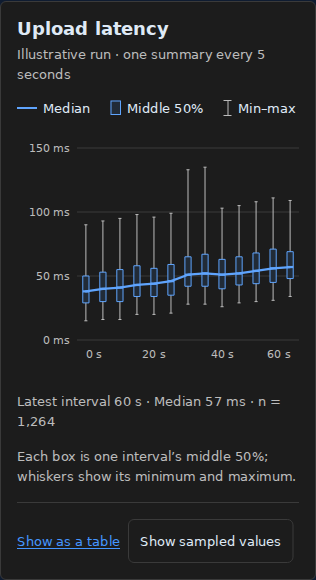
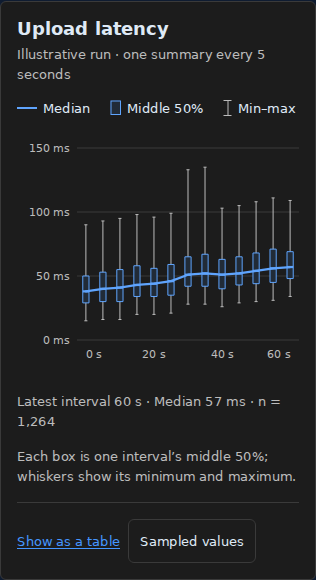
fix(insights): address native interaction and chart review findings

Changed region(s): [[0.4557, 0.9, 0.8829, 0.9621]]

diff --git a/test/patterns/insights/analytic-charts.test.ts b/test/patterns/insights/analytic-charts.test.ts
@@ -130,3 +130,25 @@ it("refreshes inspection from the current snapshot and clears removed identities
  const range=new RangeChart();range.rows=[{id:"a",label:"Before",low:12,high:58}];document.body.append(range);range.shadowRoot!.querySelector<HTMLButtonElement>('[part="range"]')!.focus();outside.focus();range.rows=[{id:"a",label:"After",low:10,high:20}];expect(range.shadowRoot!.querySelector('[part="inspection"]')!.textContent).toContain('After: between 10 and 20');range.rows=[];range.rows=[{id:"b",label:"New",low:1,high:2}];expect(range.shadowRoot!.querySelector('[part="inspection"]')!.textContent).not.toContain('Before');
  const line=new LineChart();line.series=series;document.body.append(line);const view=line.shadowRoot!.querySelector('[part="series-host"]')!.shadowRoot!;view.querySelector<HTMLButtonElement>('[part="legend-item"]')!.focus();outside.focus();line.series=[{id:"flat",label:"Updated",points:[{x:1,y:42}]}];expect(view.querySelector('[part="inspection"]')!.textContent).toContain('Updated: flat at 42');line.series=[{id:"new",label:"New",points:[{x:1,y:43}]}];expect(view.querySelector('[part="inspection"]')!.textContent).toBe('Focus a series to inspect its shape.');expect(document.activeElement).toBe(outside);
 });
+it("ignores malformed tone values while preserving valid token overrides",()=>{
+ expect(()=>categoryColor('a',0,{},42 as unknown as string)).not.toThrow();expect(categoryColor('a',0,{a:'--host-a'},42 as unknown as string)).toContain('--host-a');
+ for(const chart of [new StackedBarChart(),new RangeChart(),new LineChart()]){document.body.append(chart);expect(()=>{if(chart instanceof StackedBarChart)chart.setAttribute('bars','[{"id":"a","label":"A","segments":[{"id":"s","label":"S","value":2,"tone":42}]}]');else if(chart instanceof RangeChart)chart.setAttribute('rows','[{"id":"a","label":"A","low":1,"high":2,"tone":42}]');else chart.setAttribute('series','[{"id":"a","label":"A","tone":42,"points":[{"x":1,"y":2}]}]');}).not.toThrow();}
+});
+it("fits linear numeric x domains while retaining a zero-inclusive y scale",()=>{
+ const fitted=analyticScale([2025,2026],false,{includeZero:false});expect(fitted.position(2025)).toBeCloseTo(0);expect(fitted.position(2026)).toBeCloseTo(1);expect(analyticScale([2025,2026]).position(0)).toBe(0);
+ const chart=new LineChart();chart.series=[{id:'a',label:'Years',points:[{x:2025,y:2},{x:2026,y:3}]}];document.body.append(chart);const view=chart.shadowRoot!.querySelector('[part="series-host"]')!.shadowRoot!;const path=view.querySelector('[part="series-path"]')!.getAttribute('d')!;expect(path).toMatch(/^M 0 /);expect(path).toContain('L 100 ');const labels=[...view.querySelectorAll('[part="x-ticks"] [part="tick"]')].map(el=>el.textContent);expect(new Set(labels).size).toBe(labels.length);
+});
+it("clears numeric series hover emphasis when leaving the host",()=>{
+ const chart=new LineChart();chart.series=series;document.body.append(chart);const container=chart.shadowRoot!.querySelector('[part="series-host"]')!,view=container.shadowRoot!;view.querySelector('[part="legend-item"]')!.dispatchEvent(new MouseEvent('pointerover',{bubbles:true,composed:true}));expect(view.querySelector('[part="series-path"]')!.getAttribute('data-active')).toBe('true');container.dispatchEvent(new Event('pointerleave'));expect([...view.querySelectorAll('[part="series-path"]')].every(el=>el.getAttribute('data-muted')==='false'&&el.getAttribute('data-active')==='false')).toBe(true);
+});
+it("includes the supplied unit in segment accessible names and native tooltips",()=>{
+ const chart=new StackedBarChart();chart.bars=bars;chart.unit='tokens';document.body.append(chart);const segment=chart.shadowRoot!.querySelector<HTMLButtonElement>('[data-segment="tiny"]')!;expect(segment.getAttribute('aria-label')).toContain('117 tokens of 38,978');expect(segment.title).toBe(segment.getAttribute('aria-label'));
+});
+it("replays rich chart properties assigned before registration",()=>{
+ const stack=document.createElement('boe-test-stack-upgrade') as StackedBarChart;Object.assign(stack,{bars,unit:'tokens',format:(n:number)=>String(n),orientation:'vertical'});document.body.append(stack);customElements.define('boe-test-stack-upgrade',class extends StackedBarChart{});expect(Object.hasOwn(stack,'bars')).toBe(false);expect(stack.shadowRoot!.querySelectorAll('[part="segment"]')).toHaveLength(5);stack.bars=[];expect(stack.shadowRoot!.querySelector('[part="status"]')!.textContent).toBe('No observations.');
+ const range=document.createElement('boe-test-range-upgrade') as RangeChart;Object.assign(range,{rows:[{id:'a',label:'A',low:1,high:2}],unit:'ms'});document.body.append(range);customElements.define('boe-test-range-upgrade',class extends RangeChart{});expect(Object.hasOwn(range,'rows')).toBe(false);range.rows=[];expect(range.shadowRoot!.querySelector('[part="status"]')!.textContent).toBe('No observations.');
+ const line=document.createElement('boe-test-line-upgrade') as LineChart;Object.assign(line,{series,markers:[],xLabel:'Characters',xScale:'linear'});document.body.append(line);customElements.define('boe-test-line-upgrade',class extends LineChart{});expect(Object.hasOwn(line,'series')).toBe(false);expect(line.hasAttribute('series')).toBe(true);expect(line.shadowRoot!.querySelector('[part="series-host"]')!.shadowRoot!.querySelectorAll('[part="series-path"]')).toHaveLength(2);line.series=[];expect(line.shadowRoot!.querySelector('[part="series-host"]')!.shadowRoot!.querySelector('[part="status"]')!.textContent).toBe('No observations.');
+});
+it("keeps fitted numeric scales finite for epoch, negative, constant and extreme domains",()=>{
+ for(const values of [[1700000000000,1700000001000],[-2026,-2025],[2025],[0],[Number.MAX_VALUE],[-Number.MAX_VALUE],[5e-324],[-Number.MAX_VALUE,Number.MAX_VALUE],[5e-324,1e-300]]){const scale=analyticScale(values,false,{includeZero:false});expect(scale.ticks.every(Number.isFinite)).toBe(true);for(const value of values)expect(Number.isFinite(scale.position(value))).toBe(true);}
+});

diff --git a/tools/preview/open-issues.ts b/tools/preview/open-issues.ts
@@ -24,6 +24,7 @@ try{
   await host.screenshot({path:join(output,`${kind}-${width}-${theme}.png`),animations:"disabled"});
   if(kind==="findings-disclosure"){
    check(await chart.locator('[part="correction-summary"]').isVisible(),"Collapsed correction summary is hidden");
+   const upgrade=await host.evaluate(element=>{const tag='qa-findings-'+Math.random().toString(36).slice(2);const pre=document.createElement(tag) as HTMLElement&{findings:string[];expanded:boolean;headingLevel:number;heading:string};Object.assign(pre,{findings:['Lead','More'],expanded:true});document.body.append(pre);const Constructor=element.constructor as CustomElementConstructor;customElements.define(tag,class extends Constructor{});const root=pre.shadowRoot!;const replayed=!Object.hasOwn(pre,'expanded')&&pre.hasAttribute('expanded');const toggle=root.querySelector<HTMLButtonElement>('[part="toggle"]')!;toggle.click();const reactive=!pre.expanded&&toggle.getAttribute('aria-expanded')==='false';toggle.focus();pre.findings=['Lead'];pre.headingLevel=3;pre.heading='Updated';const focused=root.activeElement?.localName==='h3'&&root.activeElement.textContent==='Updated';pre.remove();return replayed&&reactive&&focused;});check(upgrade,'Delayed disclosure upgrade or repeated fallback focus failed');
    const toggle=chart.locator('[part="toggle"]');for(let n=0;n<3;n++){await toggle.press("Enter");check(await toggle.getAttribute("aria-expanded")==="true","Disclosure Enter did not expand");check(await chart.getByText("More findings",{exact:true}).isVisible(),"Expanded details missing");if(n===0)await host.screenshot({path:join(output,`${kind}-expanded-${width}-${theme}.png`)});await toggle.press("Space");check(await toggle.getAttribute("aria-expanded")==="false","Disclosure Space did not collapse");}
   }else{
    if(kind==="stacked-bar-chart"){
@@ -38,6 +39,8 @@ try{
    if(kind==="line-chart"){
     const legend=chart.locator('[part="legend-item"]').first();await legend.focus();check((await chart.locator('[part="inspection"]').textContent())?.includes("Flat at 539"),"Numeric series summary missing");
     check(await chart.locator('[part="series-path"]').count()===3,"Series disappeared during focus");
+    await legend.evaluate(el=>(el as HTMLElement).blur());await legend.hover();check(await chart.locator('[part="series-path"][data-active="true"]').count()===1,'Hover did not identify a series');await page.mouse.move(0,0);check(await chart.locator('[part="series-path"][data-muted="true"]').count()===0,'Hover emphasis remains after leaving the host');
+    await host.evaluate(element=>{const el=element as HTMLElement&{series:unknown[];markers:unknown[];xScale:string;yScale:string};el.markers=[];el.xScale='linear';el.yScale='linear';el.series=[{id:'years',label:'Years',points:[{x:2025,y:2},{x:2026,y:3}]}];});const fitted=await chart.locator('[part="series-path"]').getAttribute('d');check(fitted?.startsWith('M 0 ')&&fitted.includes('L 100 '),'Near-equal years are squeezed by a zero-inclusive x axis');const yearLabels=await chart.locator('[part="x-ticks"] [part="tick"]').allTextContents();check(new Set(yearLabels).size===yearLabels.length,'Compact x labels repeat for a fitted domain');
     await page.getByLabel("Preview variant").selectOption({label:"Logarithmic series"});check(await chart.locator('[part="reference"]').count()===2,"References missing on log axes");await host.screenshot({path:join(output,`${kind}-log-${width}-${theme}.png`)});
    }
    const toggle=chart.locator('[part="table-toggle"]');for(let n=0;n<3;n++){await toggle.press("Enter");check(await chart.locator('[part="table-wrap"]').isVisible(),"Data table does not open");if(!n){await host.screenshot({path:join(output,`${kind}-table-${width}-${theme}.png`)});check(!(await a11y()).length,`${kind} table accessibility failed`);}await toggle.press("Space");check(!await chart.locator('[part="table-wrap"]').isVisible(),"Data table does not close");}
@@ -77,6 +80,10 @@ try{
   check(JSON.stringify(await table.evaluate(el=>(el as HTMLElement&{selectedIds:string[]}).selectedIds))===JSON.stringify(["b"]),`Enter did not select ${mode} row`);
   await table.getByRole('textbox',{name:'Independent input'}).press('Enter');check(JSON.stringify(await table.evaluate(el=>(el as HTMLElement&{selectedIds:string[]}).selectedIds))===JSON.stringify(["b"]),'Nested Enter changed table selection');
   if(mode==="multiple"){await row.press('Enter');check((await table.evaluate(el=>(el as HTMLElement&{selectedIds:string[]}).selectedIds)).length===0,'Repeated Enter did not toggle multiple row');}
+ }
+ for(const mode of ['none','single','multiple']){
+  await table.evaluate((element,mode)=>{const el=element as HTMLElement&{selectionMode:string;rows:unknown[];selectedIds:string[];readonly expandedRows:string[]};el.selectionMode=mode;el.selectedIds=[];el.rows=[{id:'detail',cells:{name:'Detail row'},detail:'Rich content'}];if(!el.expandedRows.includes('detail'))el.shadowRoot!.querySelector<HTMLButtonElement>('[part="expander"]')!.click();el.querySelector('[slot="detail-detail"]')?.remove();const custom=document.createElement('div');custom.slot='detail-detail';const shadow=custom.attachShadow({mode:'closed'}),link=document.createElement('a');link.href='#native-detail';link.textContent='Open detail';const state=window as unknown as {nativeDetailClicks:number};state.nativeDetailClicks=0;link.addEventListener('click',event=>{event.preventDefault();state.nativeDetailClicks++;});shadow.append(link);el.append(custom);link.focus();},mode);
+  await page.keyboard.press('Enter');check(await page.evaluate(()=>(window as unknown as {nativeDetailClicks:number}).nativeDetailClicks)===1,`Closed-shadow detail link Enter was cancelled in ${mode} mode`);check((await table.evaluate(el=>(el as HTMLElement&{selectedIds:string[]}).selectedIds)).length===0,'Closed-shadow detail selected a row');
  }
  console.log('passed Table Enter, multiple toggle and independent nested control');
  if(engine===chromium){

diff --git a/src/patterns/insights/distribution-timeline.ts b/src/patterns/insights/distribution-timeline.ts
@@ -220,7 +220,7 @@ export class DistributionTimeline extends BaseElement {
     const latest=points.at(-1);
     const omitted=source.length-points.length;
     const note=`Each box is one interval’s middle 50%; whiskers show its minimum and maximum. ${points.length>20?"Scroll horizontally to inspect the full run. ":""}${this.scale==="log"?"Logarithmic scale.":""}${omitted?` ${omitted} invalid interval${omitted===1?"":"s"} omitted.`:""}${dots.length?` Showing ${new Intl.NumberFormat().format(dots.length)} of ${new Intl.NumberFormat().format(suppliedSamples)} supplied samples.`:""}`;
-    host.innerHTML=`<section part="panel" aria-label="${heading}"><header part="header"><div>${renderHeadingHtml(this.heading,{level:this.headingLevel,part:"heading"})}${this.description?`<div part="description">${escapeHtml(this.description)}</div>`:""}</div></header>${points.length&&!this.tableVisible?`<div part="legend" aria-label="Distribution key"><span part="legend-item"><span part="median-key" aria-hidden="true"></span>Median</span><span part="legend-item"><span part="quartile-key" aria-hidden="true"></span>Middle 50%</span><span part="legend-item"><span part="range-key" aria-hidden="true"></span>Min–max</span></div>`:""}${!points.length?`<div part="empty" id="distribution-chart">No valid intervals to display.</div>`:this.tableVisible?`<div part="table-wrap" id="distribution-table" role="region" aria-label="${heading} data table" tabindex="0"><table><caption>${heading} — interval summaries</caption><thead><tr>${headers.map(label=>`<th scope="col">${label}</th>`).join("")}</tr></thead><tbody>${tableRows}</tbody></table></div>`:`<div id="distribution-chart">${chart}</div>`}${latest&&!this.tableVisible?`<div part="latest">Latest interval ${timeFmt(latest.at)} · Median ${fmt(latest.median)}${latest.count===undefined?"":` · n = ${new Intl.NumberFormat().format(latest.count)}`}</div>`:""}${this.hideNote||!points.length?"":`<p part="note">${escapeHtml(note)}</p>`}<footer part="footer"><button part="table-toggle" type="button" ${!points.length?"hidden":""} aria-expanded="${this.tableVisible}" aria-controls="${this.tableVisible?"distribution-table":"distribution-chart"}">${this.tableVisible?"Show chart":"Show as a table"}</button>${suppliedSamples&&!this.hideSamples&&!this.tableVisible?`<button part="samples-toggle" type="button" aria-pressed="${this.showSamples}" aria-label="${this.showSamples?"Hide":"Show"} sampled values${this.showSamples?`, showing ${dots.length} of ${suppliedSamples} supplied samples`:""}">${this.showSamples?"Hide":"Show"} sampled values</button>`:""}<slot name="footer"></slot></footer></section>`;
+    host.innerHTML=`<section part="panel" aria-label="${heading}"><header part="header"><div>${renderHeadingHtml(this.heading,{level:this.headingLevel,part:"heading"})}${this.description?`<div part="description">${escapeHtml(this.description)}</div>`:""}</div></header>${points.length&&!this.tableVisible?`<div part="legend" aria-label="Distribution key"><span part="legend-item"><span part="median-key" aria-hidden="true"></span>Median</span><span part="legend-item"><span part="quartile-key" aria-hidden="true"></span>Middle 50%</span><span part="legend-item"><span part="range-key" aria-hidden="true"></span>Min–max</span></div>`:""}${!points.length?`<div part="empty" id="distribution-chart">No valid intervals to display.</div>`:this.tableVisible?`<div part="table-wrap" id="distribution-table" role="region" aria-label="${heading} data table" tabindex="0"><table><caption>${heading} — interval summaries</caption><thead><tr>${headers.map(label=>`<th scope="col">${label}</th>`).join("")}</tr></thead><tbody>${tableRows}</tbody></table></div>`:`<div id="distribution-chart">${chart}</div>`}${latest&&!this.tableVisible?`<div part="latest">Latest interval ${timeFmt(latest.at)} · Median ${fmt(latest.median)}${latest.count===undefined?"":` · n = ${new Intl.NumberFormat().format(latest.count)}`}</div>`:""}${this.hideNote||!points.length?"":`<p part="note">${escapeHtml(note)}</p>`}<footer part="footer"><button part="table-toggle" type="button" ${!points.length?"hidden":""} aria-expanded="${this.tableVisible}" aria-controls="${this.tableVisible?"distribution-table":"distribution-chart"}">${this.tableVisible?"Show chart":"Show as a table"}</button>${suppliedSamples&&!this.hideSamples&&!this.tableVisible?`<button part="samples-toggle" type="button" aria-pressed="${this.showSamples}">Sampled values</button>`:""}<slot name="footer"></slot></footer></section>`;
     host.querySelector('[part="table-toggle"]')?.addEventListener("click",()=>{this.tableVisible=!this.tableVisible;this.update();this.shadowRoot?.querySelector<HTMLButtonElement>('[part="table-toggle"]')?.focus();});
     host.querySelector('[part="samples-toggle"]')?.addEventListener("click",()=>{this.showSamples=!this.showSamples;this.dispatchEvent(new CustomEvent("samples-toggled",{bubbles:true,composed:true,detail:{visible:this.showSamples&&!this.hideSamples}}));this.shadowRoot?.querySelector<HTMLButtonElement>('[part="samples-toggle"]')?.focus();});
     const scroll=host.querySelector('[part="chart-wrap"]');if(scroll)scroll.scrollLeft=scrollLeft;

diff --git a/src/patterns/insights/stacked-bar-chart.ts b/src/patterns/insights/stacked-bar-chart.ts
@@ -48,6 +48,10 @@ export class StackedBarChart extends BaseElement {
   set seriesTokens(value:Record<string,string>){this.setAttribute("series-tokens",JSON.stringify(value));}
   get format():(value:number)=>string{return this.formatter??formatAnalyticValue;}
   set format(value:(value:number)=>string){this.formatter=value;this.update();}
+  connectedCallback():void{
+    this.upgradeProperties(["heading", "description", "bars", "unit", "state", "statusMessage", "seriesTokens", "format", "orientation"]);
+    super.connectedCallback();
+  }
   protected renderTemplate():void{
     this.shadowRoot!.innerHTML=`<style>${styles}</style><article part="panel"><h2 part="heading"></h2><p part="scope" hidden></p><div part="status" role="status" aria-live="polite"></div><div part="legend"></div><div part="chart"></div><p part="inspection" role="status" aria-live="polite">Focus a segment to inspect its amount and share.</p><button part="table-toggle" type="button" aria-controls="stacked-data">Show data table</button><div part="table-wrap" id="stacked-data" hidden></div><p part="note">Tiny positive segments use a minimum 2px mark. Exact amounts and rounded shares are available in the table. Shares below 0.1% are labelled explicitly.</p><slot name="footer"></slot></article>`;
   }
@@ -92,7 +96,7 @@ export class StackedBarChart extends BaseElement {
     chart.dataset.orientation=this.orientation;
     chart.innerHTML=`<div part="rows">${bars.map((bar,i)=>{
       let sum=0;const total=totals[i];
-      const segments=bar.segments.map(s=>{const start=sum/maximum*100;sum+=s.value;const text=`${bar.label}: ${s.label} ${this.format(s.value)} of ${this.format(total)}, ${formatAnalyticShare(s.value,total)}`;return `<button type="button" part="segment" data-bar="${escape(bar.id)}" data-segment="${escape(s.id)}" data-positive="${s.value>0}" style="--start:${start}%;--size:${s.value/maximum*100}%;--series-color:${colors.get(s.id)}" aria-label="${escape(text)}" title="${escape(text)}"></button>`;}).join("");
+      const segments=bar.segments.map(s=>{const start=sum/maximum*100;sum+=s.value;const text=`${bar.label}: ${s.label} ${this.format(s.value)}${this.unit?` ${this.unit}`:""} of ${this.format(total)}, ${formatAnalyticShare(s.value,total)}`;return `<button type="button" part="segment" data-bar="${escape(bar.id)}" data-segment="${escape(s.id)}" data-positive="${s.value>0}" style="--start:${start}%;--size:${s.value/maximum*100}%;--series-color:${colors.get(s.id)}" aria-label="${escape(text)}" title="${escape(text)}"></button>`;}).join("");
       return `<div part="plot-row"><div part="row-label">${escape(bar.label)}<strong part="total">${escape(bar.totalLabel??this.format(total))}${this.unit?` ${escape(this.unit)}`:""}</strong></div><div part="track"><div part="stack" role="group" aria-label="${escape(bar.label)}">${segments}</div></div></div>`;
     }).join("")}</div><div part="axis" aria-label="${escape(this.unit||"Amount")} scale">${scale.ticks.map(t=>`<span style="--position:${scale.position(t)*100}%">${escape(this.format(t))}</span>`).join("")}</div>`;
     root.querySelector('[part="table-wrap"]')!.innerHTML=`<table><caption>${escape(this.heading)} — exact composition${this.unit?` (${escape(this.unit)})`:""}</caption><thead><tr><th scope="col">Category</th><th scope="col">Segment</th><th scope="col">Amount</th><th scope="col">Share</th></tr></thead><tbody>${bars.flatMap((bar,i)=>bar.segments.map(s=>`<tr><th scope="row">${escape(bar.label)}</th><td>${escape(s.label)}</td><td>${escape(this.format(s.value))}</td><td>${escape(formatAnalyticShare(s.value,totals[i]))}</td></tr>`)).join("")}</tbody></table>`;

diff --git a/src/patterns/insights/numeric-line-view.ts b/src/patterns/insights/numeric-line-view.ts
@@ -43,7 +43,7 @@ export class NumericLineView {
     };
     root.addEventListener("focusin",event=>activate((event.target as HTMLElement).closest<HTMLElement>('[data-series-id]')?.dataset.seriesId??null));
     root.addEventListener("pointerover",event=>activate((event.target as Element).closest<HTMLElement>('[data-series-id]')?.dataset.seriesId??null));
-    root.addEventListener("pointerleave",()=>activate(null));
+    container.addEventListener("pointerleave",()=>activate(null));
     root.querySelector('button[part="table-toggle"]')!.addEventListener("click",()=>{this.tableVisible=!this.tableVisible;this.syncTable();});
   }
   private summary(series:LineChartSeries):string{
@@ -98,9 +98,11 @@ export class NumericLineView {
       table.hidden=false;return;
     }
     const axisFormat=(value:number,format:(n:number)=>string)=>format===formatAnalyticValue?new Intl.NumberFormat("en",{notation:"compact",maximumSignificantDigits:3}).format(value):format(value);
-    const xScale=analyticScale(xs,host.xScale==="log"),yScale=analyticScale(ys,host.yScale==="log");
+    const xScale=analyticScale(xs,host.xScale==="log",{includeZero:false}),yScale=analyticScale(ys,host.yScale==="log");
     root.querySelector('svg')!.setAttribute("aria-label",`${host.heading}: ${series.map(s=>s.label).join(", ")}. ${host.xLabel||"X"} ${host.xScale}; ${host.yLabel||"Value"} ${host.yScale}. Exact values and summaries follow.`);
-    root.querySelector('[part="x-ticks"]')!.innerHTML=xScale.ticks.map(x=>`<span part="tick" style="--position:${xScale.position(x)*100}%">${escape(axisFormat(x,host.xFormat))}</span>`).join("");
+    let xLabels=xScale.ticks.map(x=>axisFormat(x,host.xFormat));
+    if(host.xFormat===formatAnalyticValue&&new Set(xLabels).size!==xLabels.length)xLabels=xScale.ticks.map(host.xFormat);
+    root.querySelector('[part="x-ticks"]')!.innerHTML=xScale.ticks.map((x,i)=>`<span part="tick" style="--position:${xScale.position(x)*100}%" title="${escape(host.xFormat(x))}">${escape(xLabels[i])}</span>`).join("");
     root.querySelector('[part="y-ticks"]')!.innerHTML=yScale.ticks.map(y=>`<span part="tick" style="--position:${yScale.position(y)*100}%">${escape(axisFormat(y,host.yFormat))}</span>`).join("");
     root.querySelector('[part="grid"]')!.innerHTML=yScale.ticks.map(y=>`<line part="grid-line" x1="0" x2="100" y1="${100-yScale.position(y)*100}" y2="${100-yScale.position(y)*100}"/>`).join("");
     root.querySelector('[part="series"]')!.innerHTML=series.map((s,i)=>{

diff --git a/src/patterns/governance/findings-disclosure.ts b/src/patterns/governance/findings-disclosure.ts
@@ -36,6 +36,10 @@ export class FindingsDisclosure extends BaseElement {
   set leadCount(value:number){this.setAttribute("lead-count",String(value));}
   get expanded():boolean{return this.hasAttribute("expanded");}
   set expanded(value:boolean){this.toggleAttribute("expanded",value);}
+  connectedCallback():void{
+    this.upgradeProperties(["heading","headingLevel","findings","corrections","limits","leadCount","expanded"]);
+    super.connectedCallback();
+  }
   protected renderTemplate():void{
     this.shadowRoot!.innerHTML=`<style>${styles}</style><section part="panel"><div part="heading"></div><ul part="lead"></ul><p part="correction-summary" hidden></p><button type="button" part="toggle" aria-controls="finding-details" hidden></button><div part="details" role="region" id="finding-details" hidden></div></section>`;
   }
@@ -49,7 +53,11 @@ export class FindingsDisclosure extends BaseElement {
     if(!this.isRendered)return;
     const toggleFocused=this.shadowRoot!.activeElement?.getAttribute("part")==="toggle";
     const root=this.shadowRoot!,findings=this.findings,corrections=this.corrections,limits=this.limits;
-    root.querySelector('[part="heading"]')!.innerHTML=renderHeadingHtml(this.heading,{level:this.headingLevel});
+    const headingHost=root.querySelector('[part="heading"]')!;
+    const headingFocused=headingHost.contains(root.activeElement);
+    if(headingHost.firstElementChild?.localName===`h${this.headingLevel}`)headingHost.firstElementChild.textContent=this.heading;
+    else headingHost.innerHTML=renderHeadingHtml(this.heading,{level:this.headingLevel});
+    if(headingFocused){const heading=headingHost.firstElementChild as HTMLElement;heading.tabIndex=-1;heading.focus();}
     root.querySelector('[part="panel"]')!.setAttribute("aria-label",this.heading);
     const list=(items:string[])=>items.map(text=>`<li>${escape(text)}</li>`).join("");
     const lead=root.querySelector<HTMLElement>('[part="lead"]')!;lead.innerHTML=list(findings.slice(0,this.leadCount));lead.hidden=!lead.childElementCount;

diff --git a/test/patterns/findings-disclosure.test.ts b/test/patterns/findings-disclosure.test.ts
@@ -29,3 +29,14 @@ it("exposes accessible disclosure semantics collapsed and expanded",async()=>{
  const el=new FindingsDisclosure();el.findings=["Lead","Detail"];el.limits=["Scope"];document.body.append(el);
  for(const expanded of [false,true]){el.expanded=expanded;const result=await axe.run(el,{rules:{"color-contrast":{enabled:false}}});expect(result.violations).toEqual([]);}
 });
+it("replays properties assigned before registration and keeps setters reactive",()=>{
+ const tag='boe-test-findings-upgrade';const el=document.createElement(tag) as FindingsDisclosure;
+ Object.assign(el,{heading:'Before registration',findings:['Lead','More'],corrections:[{field:'Scope',was:'All',now:'Sample',why:'Coverage'}],limits:['Sample only'],leadCount:0,headingLevel:3,expanded:true});document.body.append(el);
+ customElements.define(tag,class extends FindingsDisclosure{});
+ expect(Object.hasOwn(el,'expanded')).toBe(false);expect(el.hasAttribute('expanded')).toBe(true);expect(el.shadowRoot!.querySelector('h3')!.textContent).toBe('Before registration');
+ const toggle=el.shadowRoot!.querySelector<HTMLButtonElement>('[part="toggle"]')!;toggle.click();expect(el.expanded).toBe(false);expect(toggle.getAttribute('aria-expanded')).toBe('false');el.findings=['Updated'];expect(el.shadowRoot!.querySelector('[part="details"]')!.textContent).toContain('Updated');el.remove();
+});
+it("keeps fallback heading focus through subsequent attribute and level updates",()=>{
+ const el=new FindingsDisclosure();el.findings=['Lead','Detail'];document.body.append(el);const root=el.shadowRoot!;root.querySelector<HTMLButtonElement>('[part="toggle"]')!.focus();el.findings=['Lead'];
+ expect(root.activeElement).toBe(root.querySelector('[part="heading"] h2'));el.limits=[];expect(root.activeElement).toBe(root.querySelector('[part="heading"] h2'));el.headingLevel=3;expect(root.activeElement).toBe(root.querySelector('[part="heading"] h3'));el.heading='Updated';expect(root.activeElement?.textContent).toBe('Updated');
+});

diff --git a/src/patterns/insights/chart-scale.ts b/src/patterns/insights/chart-scale.ts
@@ -1,15 +1,23 @@
-/** Zero-inclusive linear scales with readable 1/2/5 tick intervals. */
-export const chartScale = (values: number[]) => {
+/** Linear scales with readable 1/2/5 ticks; include zero by default. */
+export const chartScale = (values: number[], {includeZero = true}: {includeZero?:boolean} = {}) => {
   const finite = values.filter(Number.isFinite);
   let magnitude = 0;
   for (const value of finite) magnitude = Math.max(magnitude, Math.abs(value));
   magnitude ||= 1;
-  let low = 0, high = 0;
+  let low = includeZero || !finite.length ? 0 : Infinity, high = includeZero || !finite.length ? 0 : -Infinity;
   for (const value of finite) {
     low = Math.min(low, value / magnitude);
     high = Math.max(high, value / magnitude);
   }
-  if (low === high) high = 1;
+  if (low === high) {
+    if (includeZero) high = 1;
+    else {
+      const padding = Math.abs(low) * .01 || 1;
+      const limit = Number.MAX_VALUE / magnitude;
+      low = Math.max(-limit, low - padding);
+      high = Math.min(limit, high + padding);
+    }
+  }
   let ticks = Array.from({ length: 5 }, (_, index) => (low + (high - low) * index / 4) * magnitude);
 
   // Normalize first: subtracting opposite finite extremes can overflow. Keep
@@ -31,9 +39,10 @@ export const chartScale = (values: number[]) => {
     if (Number.isFinite(niceLow) && Number.isFinite(niceHigh)) {
       low = niceLow / magnitude;
       high = niceHigh / magnitude;
-      ticks = Array.from({ length: last - first + 1 }, (_, index) => Number(((first + index) * step).toPrecision(14)));
+      ticks = Array.from({ length: last - first + 1 }, (_, index) => Number(((first + index) * step).toPrecision(includeZero ? 14 : 17)));
     }
   }
+  if (!includeZero) ticks = [...new Set(ticks)];
   const position = (value: number) => (value / magnitude - low) / (high - low);
   return { position, ticks };
 };

diff --git a/src/patterns/insights/analytic-shared.ts b/src/patterns/insights/analytic-shared.ts
@@ -19,12 +19,13 @@ export const categoricalColors = [
 /** Values are CSS token names, never arbitrary CSS supplied through HTML. */
 export function categoryColor(id: string, index: number, tokens: Record<string,string>, tone?: string): string {
   const named: Record<string,string> = {primary:"--boe-token-surface-surface-brand",accent:"--boe-chart-series-2",neutral:"--boe-token-text-text-secondary",success:"--boe-token-text-status-text-success",warning:"--boe-token-text-status-text-warning",error:"--boe-token-text-status-text-error"};
-  const token = tokens[id] ?? (tone?.startsWith("--") ? tone : named[tone??""]);
+  const name = typeof tone === "string" ? tone : "";
+  const token = tokens[id] ?? (name.startsWith("--") ? name : named[name]);
   const fallback = categoricalColors[index % categoricalColors.length];
   return typeof token === "string" && /^--[a-zA-Z0-9_-]+$/.test(token) ? `var(${token},${fallback})` : fallback;
 }
-export function analyticScale(values: number[], logarithmic = false) {
-  if (!logarithmic) return chartScale(values);
+export function analyticScale(values: number[], logarithmic = false, options: {includeZero?:boolean} = {}) {
+  if (!logarithmic) return chartScale(values,options);
   if(!values.length)return {ticks:[1,10],position:(value:number)=>Math.log10(value)};
   let observedLow=Infinity,observedHigh=-Infinity;
   for(const value of values){observedLow=Math.min(observedLow,value);observedHigh=Math.max(observedHigh,value);}

diff --git a/test/patterns/insights/distribution-timeline.test.ts b/test/patterns/insights/distribution-timeline.test.ts
@@ -127,3 +127,6 @@ it("retains every dense interval and the local scroll position when samples are 
  root.querySelector('[part="chart-wrap"]')!.scrollLeft=300;chart.showSamples=true;expect(root.querySelector('[part="chart-wrap"]')!.scrollLeft).toBe(300);expect(root.querySelector('[part="note"]')!.textContent).toContain('Scroll horizontally');
  root.querySelector<HTMLButtonElement>('[part="table-toggle"]')!.click();expect(root.querySelectorAll('tbody tr')).toHaveLength(500);
 });
+it("keeps a stable sampled-values toggle name while pressed state and counts change",()=>{
+ const chart=new DistributionTimeline();chart.points=[point(0,40,[12,44])];document.body.append(chart);const root=chart.shadowRoot!;const button=()=>root.querySelector<HTMLButtonElement>('[part="samples-toggle"]')!;expect(button().textContent).toBe('Sampled values');expect(button().getAttribute('aria-pressed')).toBe('false');button().click();expect(button().textContent).toBe('Sampled values');expect(button().getAttribute('aria-pressed')).toBe('true');expect(root.querySelector('[part="note"]')!.textContent).toContain('Showing 2 of 2');
+});

diff --git a/test/components/collections/table.test.ts b/test/components/collections/table.test.ts
@@ -1210,3 +1210,8 @@ it.each(["single","multiple"] as const)("selects focused %s rows on Enter withou
   row().dispatchEvent(new KeyboardEvent("keydown",{key:"Enter",bubbles:true,cancelable:true}));
   expect(el.selectedIds).toEqual(mode==="multiple"?[]:["b"]);el.remove();
 });
+it.each(['none','single','multiple'])("does not cancel Enter or Space from a closed-shadow detail control in %s mode",mode=>{
+ const el=create(mode);el.rows=[{id:'1',cells:{name:'A'},detail:'Rich detail'}];el.shadowRoot!.querySelector<HTMLButtonElement>('[part="expander"]')!.click();
+ const host=document.createElement('div');host.slot='detail-1';const shadow=host.attachShadow({mode:'closed'});const link=document.createElement('a');link.href='#detail';link.textContent='Details';shadow.append(link);el.append(host);
+ for(const key of ['Enter',' ']){const event=new KeyboardEvent('keydown',{key,bubbles:true,composed:true,cancelable:true});link.dispatchEvent(event);expect(event.defaultPrevented).toBe(false);}expect(el.selectedIds).toEqual([]);el.remove();
+});

diff --git a/src/patterns/insights/range-chart.ts b/src/patterns/insights/range-chart.ts
@@ -42,6 +42,10 @@ export class RangeChart extends BaseElement {
   private ranges(row:RangeChartRow):ChartRange[]{
     return row.ranges??[{id:"range",label:"Range",low:row.low!,high:row.high!,value:row.value,tone:row.tone}];
   }
+  connectedCallback():void{
+    this.upgradeProperties(["heading", "description", "rows", "unit", "state", "statusMessage", "seriesTokens", "format"]);
+    super.connectedCallback();
+  }
   protected renderTemplate():void{
     this.shadowRoot!.innerHTML=`<style>${styles}</style><article part="panel"><h2 part="heading"></h2><p part="scope" hidden></p><div part="status" role="status" aria-live="polite"></div><div part="legend"></div><div part="chart"></div><p part="inspection" role="status" aria-live="polite">Focus a range to inspect its bounds. A point appears only when supplied by the host.</p><button part="table-toggle" type="button" aria-controls="range-data">Show data table</button><div part="table-wrap" id="range-data" hidden></div><slot name="footer"></slot></article>`;
   }
